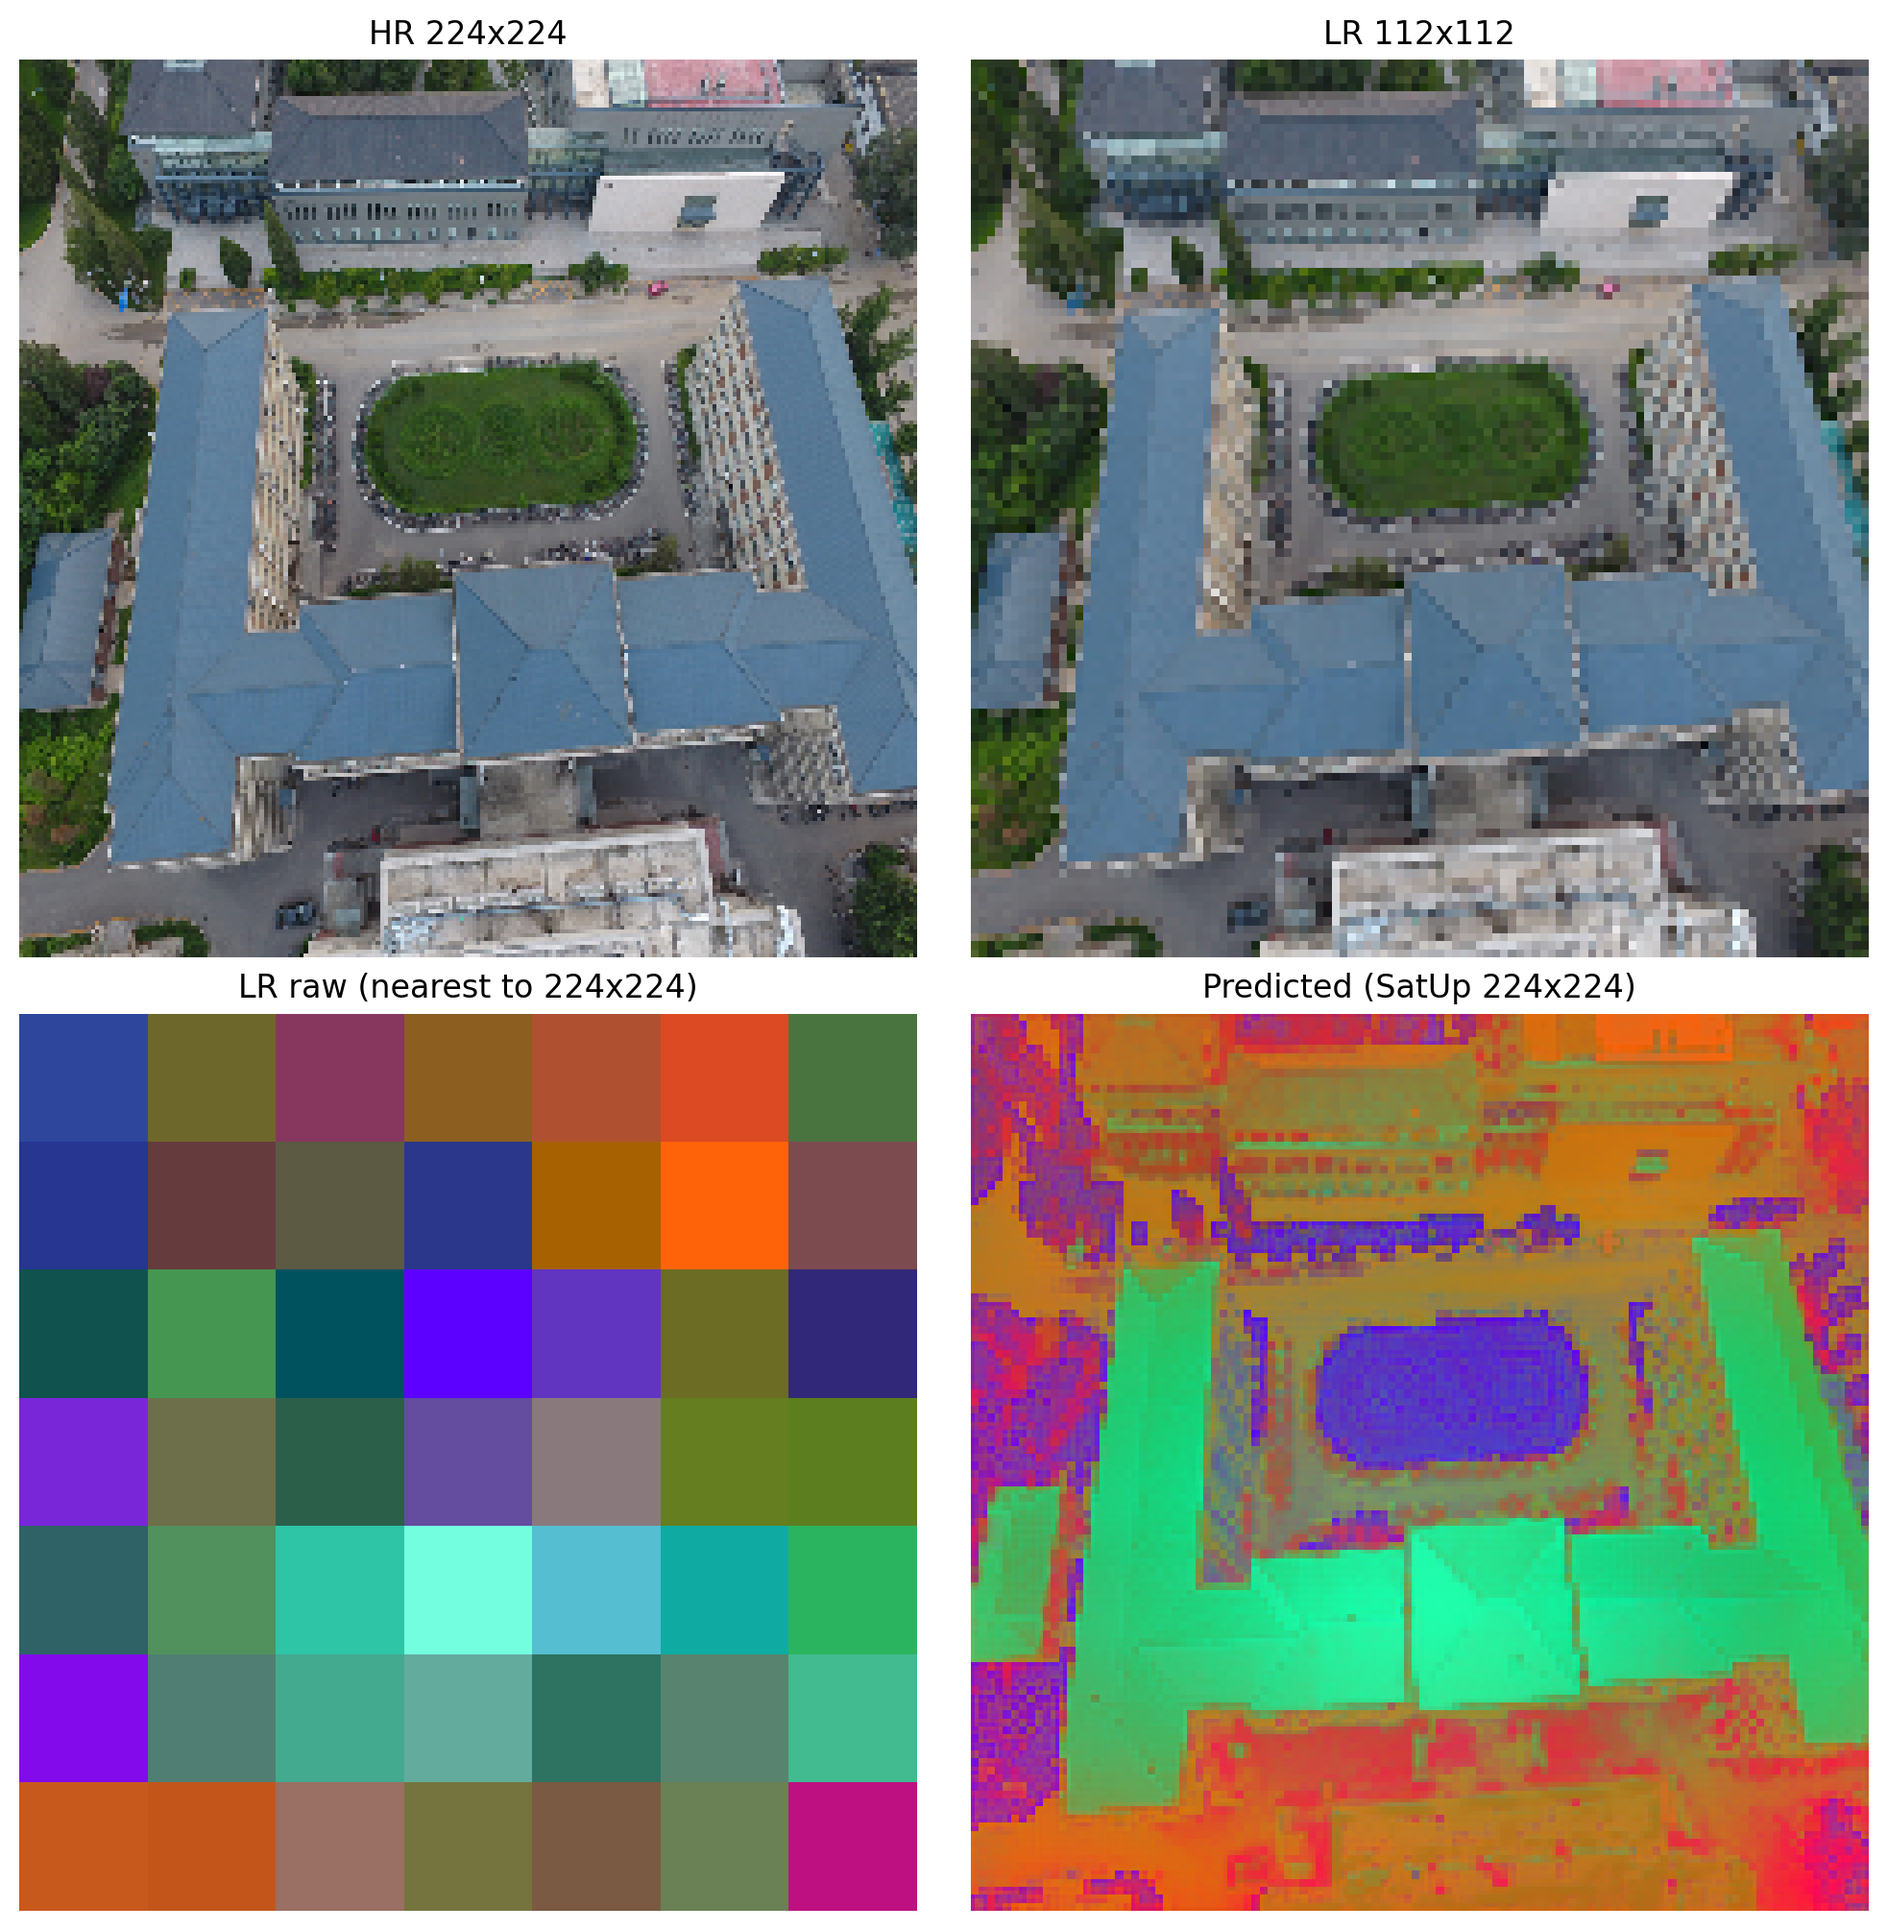
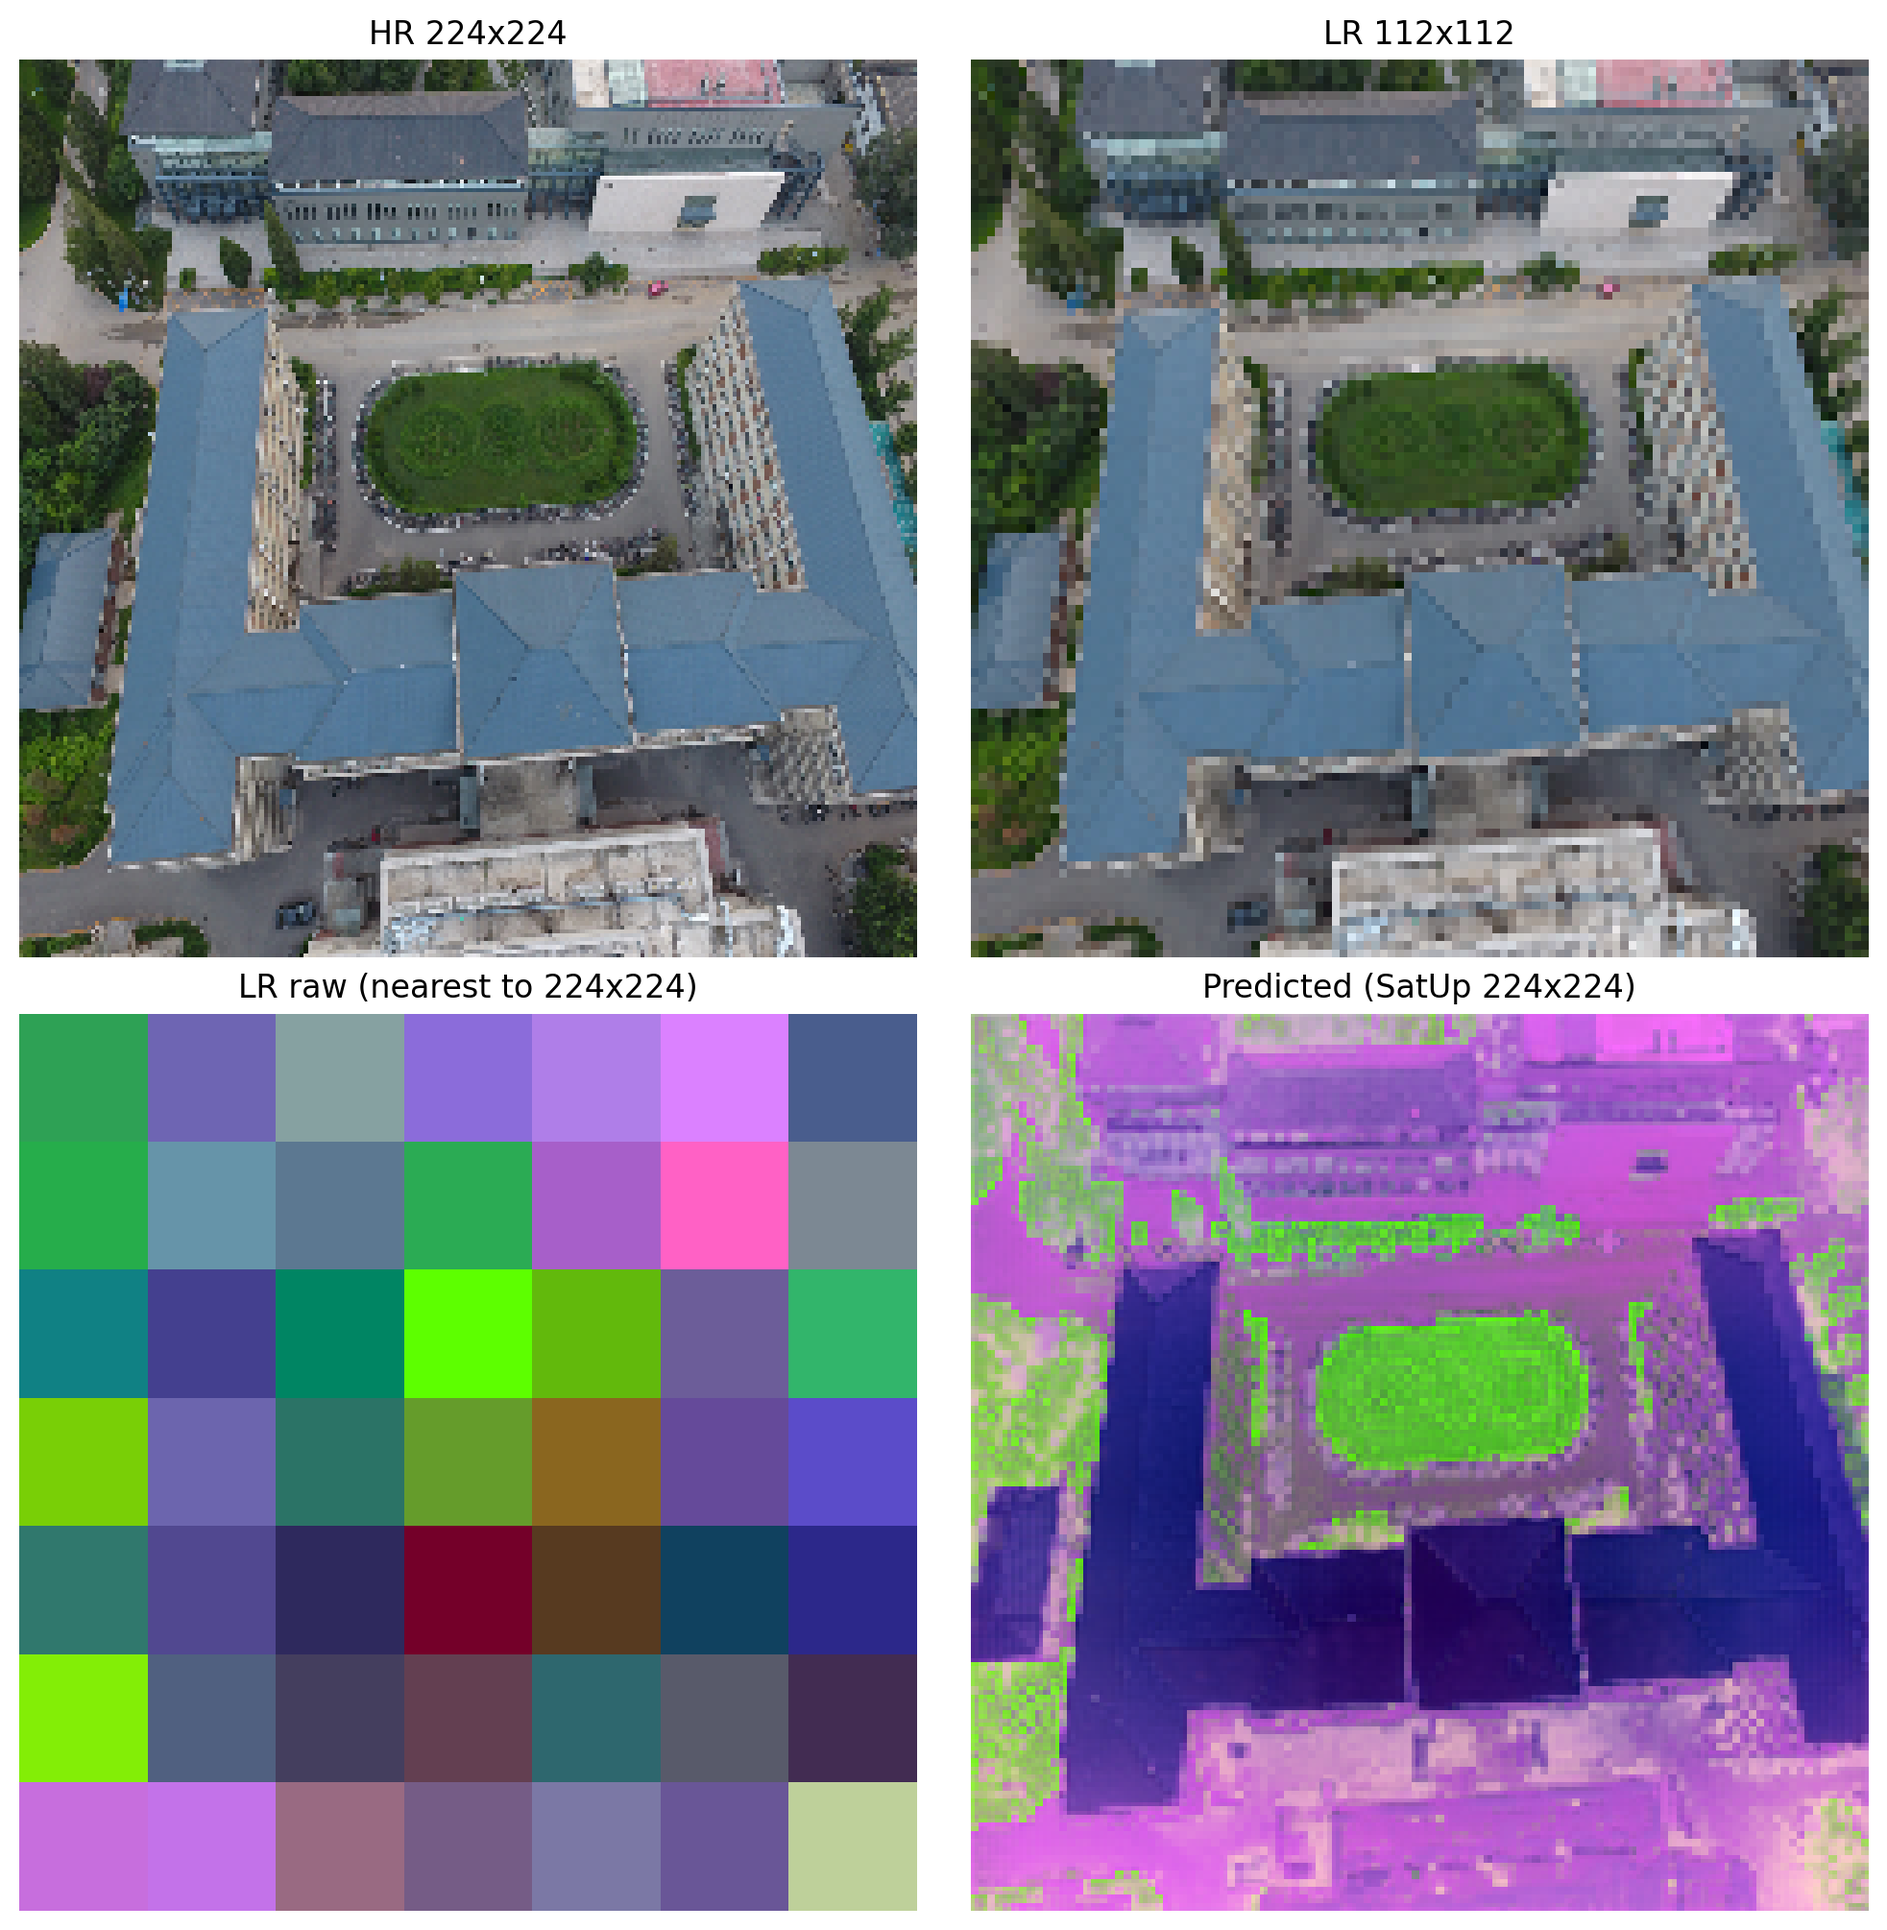
emmm

diff --git a/satup/infer.py b/satup/infer.py
@@ -1,164 +1,199 @@
 import os
 import argparse
+from pathlib import Path
+
 import torch
 import torch.nn.functional as F
 import torchvision.transforms as T
-from PIL import Image
+import timm
 import matplotlib.pyplot as plt
 import numpy as np
-import timm
+from PIL import Image
+
 from model import SatUp
 
 
-class TorchPCA:
-    def __init__(self, n_components):
+# =========================
+# Stable PCA (GT anchor)
+# =========================
+class FixedPCA:
+    def __init__(self, n_components=3):
         self.n_components = n_components
 
     def fit(self, X):
-        self.mean_ = X.mean(dim=0)
-        unbiased = X - self.mean_.unsqueeze(0)
-        U, S, V = torch.pca_lowrank(
-            unbiased, q=self.n_components, center=False, niter=4
-        )
-        self.components_ = V.T
-        self.singular_values_ = S
+        self.mean_ = X.mean(dim=0, keepdim=True)
+        Xc = X - self.mean_
+
+        U, S, V = torch.pca_lowrank(Xc, q=self.n_components, center=False)
+        self.components_ = V[:, :self.n_components]
+
+        # sign fix (very important for stable color)
+        for i in range(self.components_.shape[1]):
+            if self.components_[:, i].sum() < 0:
+                self.components_[:, i] *= -1
+
         return self
 
     def transform(self, X):
-        return (X - self.mean_.unsqueeze(0)) @ self.components_.T
+        return (X - self.mean_) @ self.components_
 
 
-def pca_features(feat_list, dim=3):
-    device = feat_list[0].device
-
-    def flatten(t):
-        B, C, H, W = t.shape
-        return t.permute(1, 0, 2, 3).reshape(C, B * H * W).permute(1, 0).detach().cpu()
-
-    target_size = feat_list[0].shape[2]
-    flat_all = []
-    for f in feat_list:
-        if f.shape[2] != target_size:
-            f = F.interpolate(f, (target_size, target_size), mode="area")
-        flat_all.append(flatten(f))
-    x = torch.cat(flat_all, dim=0)
-    pca = TorchPCA(n_components=dim).fit(x)
-    reduced = []
-    for f in feat_list:
-        if f.shape[2] != target_size:
-            f = F.interpolate(f, (target_size, target_size), mode="area")
-        x_red = pca.transform(flatten(f))
-        x_red -= x_red.min(dim=0, keepdim=True).values
-        x_red /= x_red.max(dim=0, keepdim=True).values + 1e-8
-        B, C, H, W = f.shape
-        reduced.append(x_red.reshape(B, H, W, dim).permute(0, 3, 1, 2).to(device))
-    return reduced
+# =========================
+# flatten feature map
+# =========================
+def flatten_feat(feat):
+    B, C, H, W = feat.shape
+    return feat.permute(0, 2, 3, 1).reshape(-1, C).detach().cpu()
 
 
-def load_clip(model_name="vit_base_patch16_clip_384"):
-    model = timm.create_model(
-        model_name, pretrained=True, num_classes=0, dynamic_img_size=True
-    )
-    model.eval()
-    for p in model.parameters():
-        p.requires_grad = False
-    return model
+# =========================
+# PCA with GT anchor
+# =========================
+def stable_pca(gt_feat, pred_feat, lr_feat):
+    X = flatten_feat(gt_feat)
+    pca = FixedPCA(3).fit(X)
+
+    def apply(feat):
+        x = flatten_feat(feat)
+        x = pca.transform(x)
+
+        # stable normalization
+        x = x - x.min(dim=0, keepdim=True).values
+        x = x / (x.max(dim=0, keepdim=True).values + 1e-8)
+
+        B, C, H, W = feat.shape
+        return x.reshape(B, H, W, 3).permute(0, 3, 1, 2)
+
+    return apply(gt_feat), apply(pred_feat), apply(lr_feat)
 
 
+# =========================
+# CLIP feature extractor
+# =========================
 @torch.no_grad()
-def extract_clip_feat(model, img_tensor):
+def extract_clip_feat(model, img):
     result = model.forward_intermediates(
-        img_tensor,
+        img,
         indices=[-1],
         return_prefix_tokens=True,
         norm=True,
         output_fmt="NCHW",
         intermediates_only=False,
     )
+
     feats = result[0] if isinstance(result, tuple) else result
+
     if isinstance(feats, list):
         feats = feats[0]
+
     if feats.dim() == 3:
         B, L, C = feats.shape
         H = W = int((L - 1) ** 0.5)
         feats = feats[:, 1:].reshape(B, H, W, C).permute(0, 3, 1, 2)
+
     return feats
 
 
+# =========================
+# model loader
+# =========================
+def load_clip():
+    model = timm.create_model(
+        "vit_base_patch16_clip_384",
+        pretrained=True,
+        num_classes=0,
+        dynamic_img_size=True,
+    )
+    model.eval()
+    return model
+
+
+# =========================
+# main
+# =========================
 def main(args):
+
     device = torch.device("cuda" if torch.cuda.is_available() else "cpu")
     os.makedirs(args.save_dir, exist_ok=True)
 
-    # CLIP
     clip = load_clip().to(device)
-    mean, std, size = (
-        timm.data.resolve_model_data_config("vit_base_patch16_clip_384")["mean"],
-        timm.data.resolve_model_data_config("vit_base_patch16_clip_384")["std"],
-        timm.data.resolve_model_data_config("vit_base_patch16_clip_384")["input_size"][
-            -1
-        ],
-    )
 
-    # Load & preprocess
+    config = timm.data.resolve_model_data_config("vit_base_patch16_clip_384")
+    mean, std, size = config["mean"], config["std"], config["input_size"][-1]
+
+    # image
     img = Image.open(args.image).convert("RGB")
+
     hr = T.ToTensor()(img).unsqueeze(0)
     hr = F.interpolate(hr, (size, size), mode="bilinear")
+
     lr = F.interpolate(hr, scale_factor=0.5, mode="bicubic")
 
     norm = T.Normalize(mean, std)
+
     hr_n = norm(hr.clone()).to(device)
     lr_n = norm(lr.clone()).to(device)
 
-    # Extract features
-    hr_feat = extract_clip_feat(clip, hr_n)  # (1,768,24,24)
-    lr_feat = extract_clip_feat(clip, lr_n)  # (1,768,12,12)
+    # features
+    gt_feat = extract_clip_feat(clip, hr_n)
+    lr_feat = extract_clip_feat(clip, lr_n)
 
-    # SatUp
-    target = args.output_size
     satup = SatUp(dim=128, v_dim=768).to(device)
     satup.load_state_dict(torch.load(args.weight, map_location=device))
     satup.eval()
+
     with torch.no_grad():
-        pred_feat = satup(lr.to(device), lr_feat, (target, target))
+        pred_feat = satup(lr.to(device), lr_feat, (args.output_size, args.output_size))
 
-    # Upsample GT and LR features for comparison
-    hr_up = F.interpolate(hr_feat, (target, target), mode="bilinear")
-    lr_up = F.interpolate(lr_feat, (target, target), mode="nearest")
+    # upsample LR for comparison
+    lr_feat_up = F.interpolate(lr_feat, (args.output_size, args.output_size), mode="nearest")
+    gt_feat_up = F.interpolate(gt_feat, (args.output_size, args.output_size), mode="bilinear")
 
-    # PCA (GT, Pred, LR)
-    pcas = pca_features([hr_up, pred_feat, lr_up], dim=3)
-    pred_pca = pcas[1].squeeze(0).permute(1, 2, 0).cpu().numpy()
-    lr_up_pca = pcas[2].squeeze(0).permute(1, 2, 0).cpu().numpy()
+    # PCA (IMPORTANT FIX)
+    gt_pca, pred_pca, lr_pca = stable_pca(gt_feat_up, pred_feat, lr_feat_up)
 
-    # Visualize
-    hr_disp = hr.squeeze(0).permute(1, 2, 0).cpu().numpy()
-    lr_disp = lr.squeeze(0).permute(1, 2, 0).cpu().numpy()
+    # convert to numpy
+    img_np = hr[0].permute(1, 2, 0).cpu().numpy()
+    gt_np = gt_pca[0].permute(1, 2, 0).cpu().numpy()
+    pred_np = pred_pca[0].permute(1, 2, 0).cpu().numpy()
+    lr_np = lr_pca[0].permute(1, 2, 0).cpu().numpy()
 
-    fig, axes = plt.subplots(2, 2, figsize=(10, 10))
-    axes[0, 0].imshow(hr_disp)
-    axes[0, 0].set_title(f"HR {hr.shape[-2]}x{hr.shape[-1]}")
-    axes[0, 1].imshow(lr_disp)
-    axes[0, 1].set_title(f"LR {lr.shape[-2]}x{lr.shape[-1]}")
-    axes[1, 0].imshow(lr_up_pca, interpolation="nearest", cmap='viridis')
-    axes[1, 0].set_title(f"LR raw (nearest to {target}x{target})")
-    axes[1, 1].imshow(pred_pca, cmap='viridis')
-    axes[1, 1].set_title(f"Predicted (SatUp {target}x{target})")
-    for ax in axes.flat:
-        ax.axis("off")
-    plt.tight_layout(pad=0.5)
-    plt.savefig(
-        os.path.join(args.save_dir, f"result_{target}x{target}.png"),
-        dpi=200,
-        bbox_inches="tight",
-    )
+    # plot
+    fig, ax = plt.subplots(1, 4, figsize=(18, 5))
+
+    ax[0].imshow(img_np)
+    ax[0].set_title("Image")
+
+    ax[1].imshow(gt_np)
+    ax[1].set_title("GT (stable PCA)")
+
+    ax[2].imshow(pred_np)
+    ax[2].set_title("SatUp")
+
+    ax[3].imshow(lr_np)
+    ax[3].set_title("LR")
+
+    for a in ax:
+        a.axis("off")
+
+    plt.tight_layout()
+
+    save_path = Path(args.save_dir) / f"stable_pca_{args.output_size}.png"
+    plt.savefig(save_path, dpi=300, bbox_inches="tight")
     plt.show()
 
+    print("Saved to:", save_path)
 
+
+# =========================
+# run
+# =========================
 if __name__ == "__main__":
     parser = argparse.ArgumentParser()
-    parser.add_argument("--image", default="asset/img3.jpg")
+    parser.add_argument("--image", default="asset/img2.jpg")
     parser.add_argument("--weight", default="satup_47.pth")
     parser.add_argument("--save_dir", default="results")
     parser.add_argument("--output_size", type=int, default=224)
+
     args = parser.parse_args()
     main(args)
